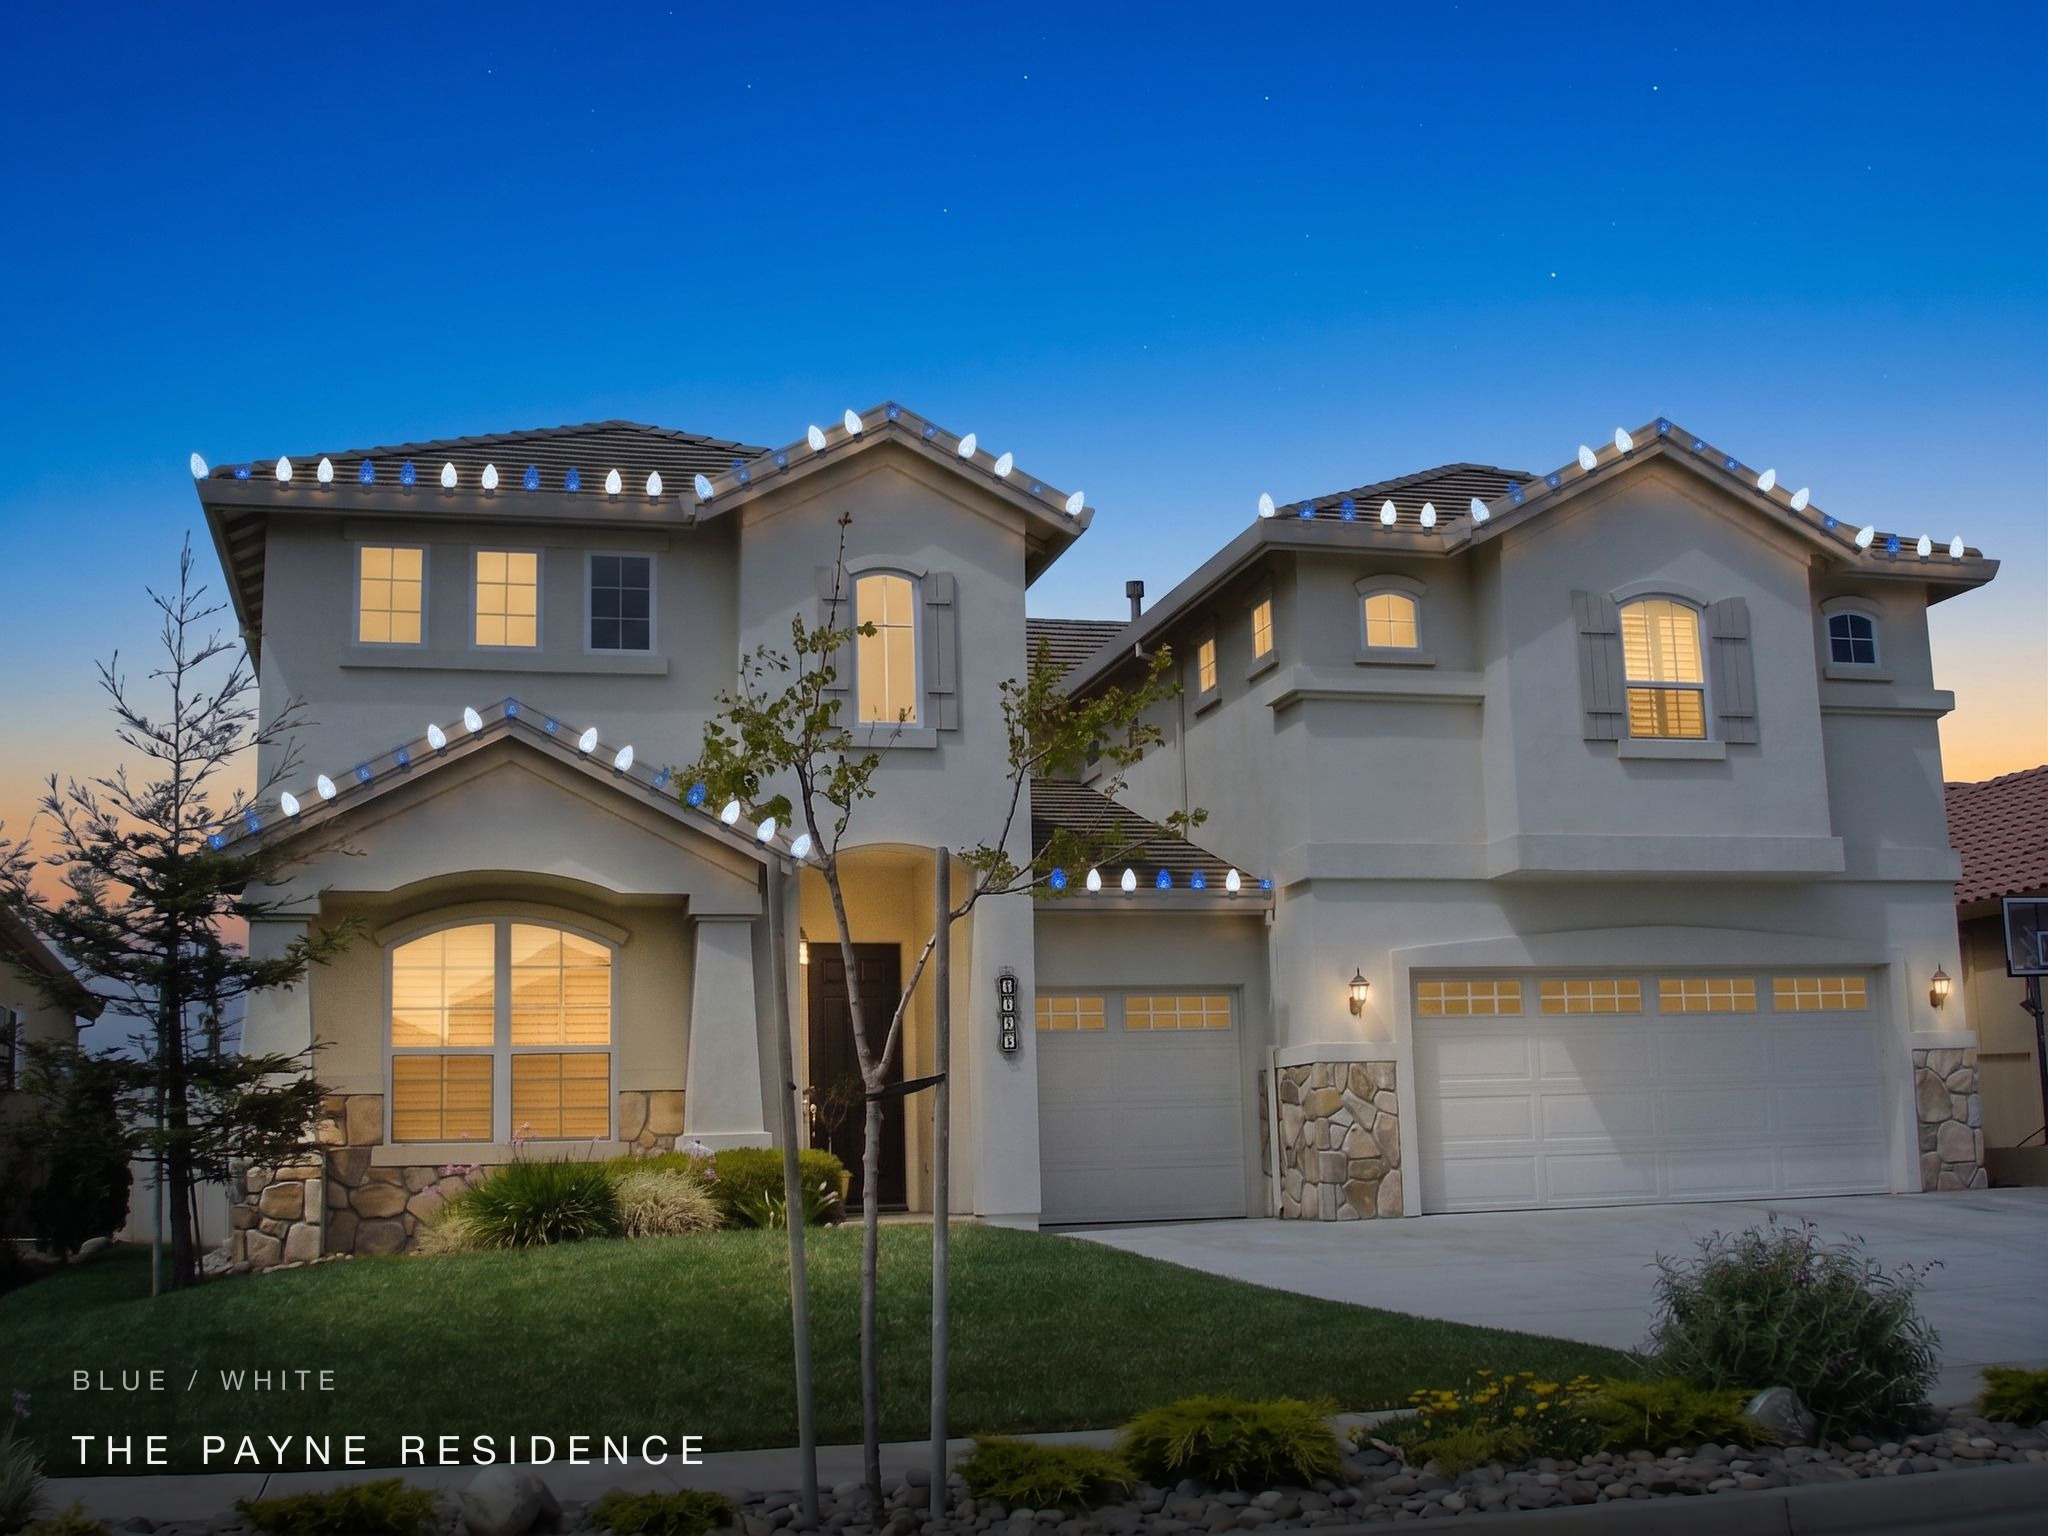
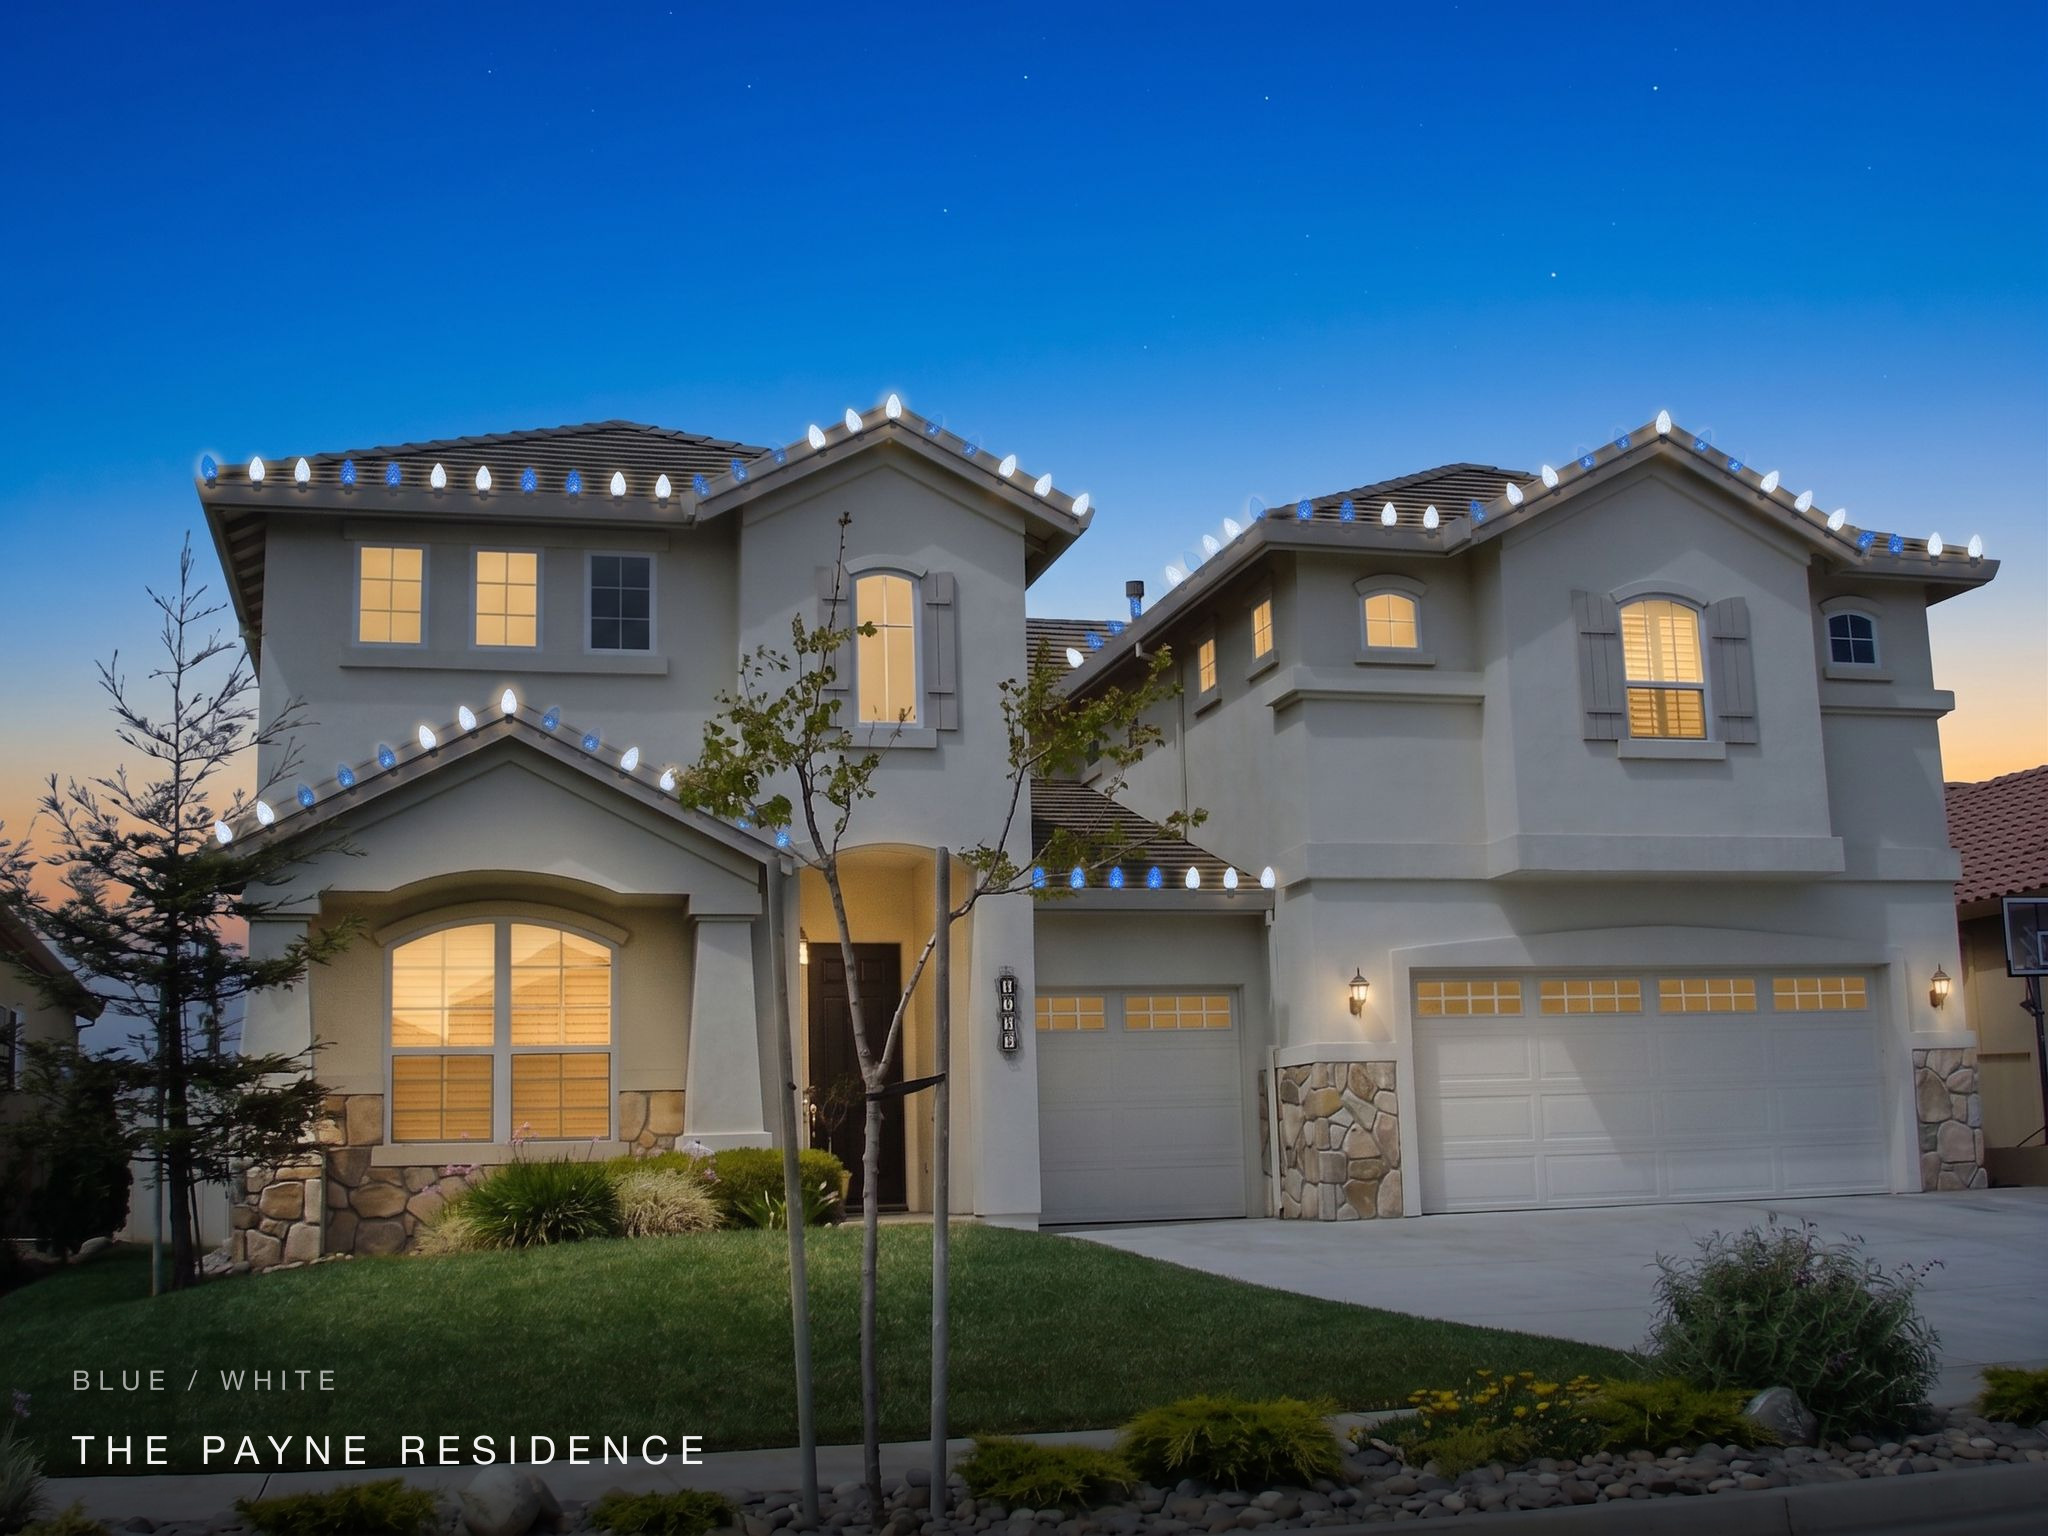
Re-render the remaining multicolour designs and address the client's brief directly
Blue/White and Red/Green still carried the old renders, where saturated bulbs came
through as flat markers rather than lights. Both re-rendered against the schematic
guide: bulbs now sit on the fascia with visible clips, blue reads as blue instead
of a faint speck, and coloured bulbs match the whites in size and shape. Colour
grouping is closer but still approximate — the model follows the two-and-two
pattern loosely rather than exactly.

The page now answers the client's own prototype checklist. They said the paid
prototype is how they will decide and then listed eight things it has to show, so
lib/brief.ts holds that list in their wording and the page maps each item to the
evidence and links to it. Seven read as demonstrated; vehicle removal is marked as
demonstrated with a limit, since a car covering the facade forces reconstruction
the check then flags.

Also states their installation spec back to them under each product — SMD C9 at
15-inch spacing, front-facing roofline only, repeating colour groups; Omni at
8-inch spacing as a vertical wall wash — and reframes the opening around the GM
working from the truck while the homeowner decides.

Verified: build stays fully static, page returns 200 with FAL_KEY unset and leaks
no key, typecheck and lint clean.

diff --git a/app/page.tsx b/app/page.tsx
@@ -4,6 +4,8 @@ import { PreservationBadge } from './components/PreservationBadge';
 import { Section } from './components/Section';
 import { SiteNav, type NavItem } from './components/SiteNav';
 import { VariantPicker } from './components/VariantPicker';
+import { BriefChecklist } from './components/BriefChecklist';
+import { SpecRow } from './components/SpecRow';
 import { byProduct, houseBySlug, HOUSES } from '@/lib/gallery';
 
 /**
@@ -21,6 +23,7 @@ const NAV: NavItem[] = [
   { id: 'cleanup', label: 'Vehicles' },
   { id: 'compare', label: 'Compare' },
   { id: 'quality', label: 'Quality control' },
+  { id: 'brief', label: 'Your brief' },
 ];
 
 function Stat({ value, label }: { value: string; label: string }) {
@@ -51,9 +54,10 @@ export default function Gallery() {
             One photo of the house. A rendering they can picture.
           </h1>
           <p className="mt-4 max-w-[62ch] text-[15px] leading-relaxed text-[var(--muted)] sm:text-[16px]">
-            A salesperson photographs the home, picks a design, and gets a dusk visualization of
-            the installation — with the customer&apos;s actual house left intact. Everything on this
-            page came out of the pipeline from a single daytime photograph.
+            While the homeowner thinks it over, the GM photographs the house from the truck,
+            picks a design, and has a dusk visualization to text over before the conversation
+            cools. Everything on this page came out of the pipeline from one daytime photograph —
+            the customer&apos;s actual home, left intact.
           </p>
         </div>
 
@@ -87,6 +91,14 @@ export default function Gallery() {
             lede="SMD C9 bulbs on the front-facing roofline at 15-inch spacing. Multicolour designs use repeating groups — two red then two white — because that is how the installation is actually run. Switch between them: only the lights change."
           >
             <VariantPicker variants={christmas} houseName={payne.lastName} />
+            <SpecRow
+              specs={[
+                ['Bulb', 'SMD C9 LED'],
+                ['Spacing', '15 inches on centre'],
+                ['Coverage', 'Front-facing roofline only'],
+                ['Pattern', 'Repeating groups, e.g. 2 red / 2 white'],
+              ]}
+            />
           </Section>
         )}
 
@@ -98,6 +110,14 @@ export default function Gallery() {
             lede="A different product, and it has to read as one. Fixtures sit recessed in the eave and wash light down the façade rather than appearing as exposed bulbs on the roofline."
           >
             <VariantPicker variants={permanent} houseName={payne.lastName} />
+            <SpecRow
+              specs={[
+                ['Fixture', 'Omni architectural'],
+                ['Spacing', '8 inches on centre'],
+                ['Effect', 'Vertical wall wash down the façade'],
+                ['Options', 'Whites, RGB and paired colours'],
+              ]}
+            />
           </Section>
         )}
 
@@ -196,9 +216,26 @@ export default function Gallery() {
           </ol>
         </Section>
 
-        <footer className="border-t border-[var(--line)] pt-6 text-[11.5px] leading-relaxed text-[var(--muted)]">
-          Prototype for Augusta Lights. Test photographs are licensed stock, not customer
-          properties. Renders are 2048px JPEGs produced by the pipeline in this repository.
+        <Section
+          id="brief"
+          eyebrow="Against your brief"
+          title="The eight things the prototype had to show"
+          lede="Taken from your own list, in your wording. Seven are demonstrated outright; one is demonstrated with a limit worth knowing about before it surprises a GM in someone's driveway. Each links to the evidence above."
+        >
+          <BriefChecklist />
+        </Section>
+
+        <footer className="border-t border-[var(--line)] pt-6">
+          <p className="max-w-[70ch] text-[12px] leading-relaxed text-[var(--muted)]">
+            Prototype for Augusta Lights. The houses shown are licensed stock photographs, not
+            customer properties — running this on your own difficult set is the obvious next step.
+            Every image is a 2048px JPEG produced by the pipeline in this repository; nothing on
+            this page is hand-retouched.
+          </p>
+          <p className="mt-3 max-w-[70ch] text-[12px] leading-relaxed text-[var(--muted)]">
+            This page is a static gallery of finished work. It makes no API calls and holds no
+            keys, so opening or sharing it costs nothing.
+          </p>
         </footer>
       </main>
     </>

diff --git a/lib/brief.ts b/lib/brief.ts
@@ -1,0 +1,69 @@
+/**
+ * The client's own prototype acceptance list, verbatim from their brief.
+ *
+ * They said the paid prototype is how they will decide, and then listed exactly
+ * what it has to demonstrate. Answering that list point by point — including the
+ * one that comes with a caveat — is more useful to them than a generic showcase.
+ */
+
+export type BriefStatus = 'met' | 'caveat';
+
+export interface BriefItem {
+  /** Their wording, not ours. */
+  requirement: string;
+  status: BriefStatus;
+  /** What was actually produced, and where on this page to look. */
+  evidence: string;
+  href: string;
+}
+
+export const BRIEF: BriefItem[] = [
+  {
+    requirement: 'Preserve the original architecture',
+    status: 'met',
+    evidence: 'Scored against the original photograph on every render, with the edge overlay shown.',
+    href: '#quality',
+  },
+  {
+    requirement: 'Convert the property realistically to dusk',
+    status: 'met',
+    evidence: 'Blue-hour sky, warm horizon and an architectural colour grade, produced once per property.',
+    href: '#proof',
+  },
+  {
+    requirement: 'Remove a vehicle if present',
+    status: 'caveat',
+    evidence: 'Removed, and the driveway rebuilt — but a car covering the façade forces the model to invent what was behind it, and the check flags that.',
+    href: '#cleanup',
+  },
+  {
+    requirement: 'Illuminate existing windows without inventing new ones',
+    status: 'met',
+    evidence: 'Warm interior glow on the windows already in the photograph, varied so it reads as lived-in.',
+    href: '#proof',
+  },
+  {
+    requirement: 'Identify and render the front-facing roofline',
+    status: 'met',
+    evidence: 'Traced on the phone in about ten seconds, then every bulb position is computed from it. Front-facing only — no window, door or garage outlining.',
+    href: '#christmas',
+  },
+  {
+    requirement: 'Apply realistic warm-white C9 Christmas lighting',
+    status: 'met',
+    evidence: 'SMD C9 bulbs clipped to the fascia at 15-inch spacing, 50 on this roofline.',
+    href: '#christmas',
+  },
+  {
+    requirement: 'Produce at least one alternate colour pattern',
+    status: 'met',
+    evidence: 'Ten alternates: four more Christmas designs and six Omni, all from the same dusk photograph.',
+    href: '#compare',
+  },
+  {
+    requirement: 'Demonstrate realistic Omni permanent-light wall wash',
+    status: 'met',
+    evidence: 'Fixtures recessed into the eave at 8-inch spacing, washing the façade rather than reading as exposed bulbs.',
+    href: '#permanent',
+  },
+];

diff --git a/app/components/BriefChecklist.tsx b/app/components/BriefChecklist.tsx
@@ -1,0 +1,42 @@
+import { BRIEF } from '@/lib/brief';
+
+/** Their acceptance list, answered point by point. */
+export function BriefChecklist() {
+  return (
+    <ol className="grid gap-2.5 sm:grid-cols-2">
+      {BRIEF.map((item, i) => {
+        const met = item.status === 'met';
+        return (
+          <li key={item.requirement}>
+            <a
+              href={item.href}
+              className="card flex h-full gap-3 p-4 transition-colors hover:border-[var(--line-strong)]"
+            >
+              <span
+                className="mt-0.5 grid h-5 w-5 shrink-0 place-items-center rounded-full text-[11px] font-bold"
+                style={{
+                  background: met ? 'rgb(74 222 128 / 0.14)' : 'rgb(255 196 107 / 0.16)',
+                  color: met ? 'var(--ok)' : 'var(--accent)',
+                }}
+                aria-hidden="true"
+              >
+                {met ? '✓' : '!'}
+              </span>
+              <span className="min-w-0">
+                <span className="block text-[13.5px] leading-snug font-medium">
+                  {i + 1}. {item.requirement}
+                </span>
+                <span className="mt-1 block text-[12.5px] leading-relaxed text-[var(--muted)]">
+                  {item.evidence}
+                </span>
+                <span className="mt-1.5 block text-[11px] font-semibold tracking-wide text-[var(--accent)]">
+                  {met ? 'Demonstrated' : 'Demonstrated, with a limit'} →
+                </span>
+              </span>
+            </a>
+          </li>
+        );
+      })}
+    </ol>
+  );
+}

diff --git a/app/components/SpecRow.tsx b/app/components/SpecRow.tsx
@@ -1,0 +1,21 @@
+/**
+ * Compact product facts under each lighting section.
+ *
+ * The client specified their installation precisely — bulb type, spacing, what is
+ * and is not included by default — so the demo states those back rather than
+ * leaving them to be inferred from a picture.
+ */
+export function SpecRow({ specs }: { specs: [label: string, value: string][] }) {
+  return (
+    <dl className="mt-4 grid grid-cols-2 gap-2.5 sm:grid-cols-4">
+      {specs.map(([label, value]) => (
+        <div key={label} className="card px-3.5 py-3">
+          <dt className="text-[10.5px] font-semibold tracking-[0.12em] text-[var(--muted)] uppercase">
+            {label}
+          </dt>
+          <dd className="mt-1.5 text-[12.5px] leading-snug">{value}</dd>
+        </div>
+      ))}
+    </dl>
+  );
+}
